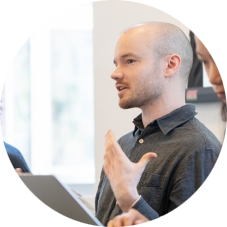
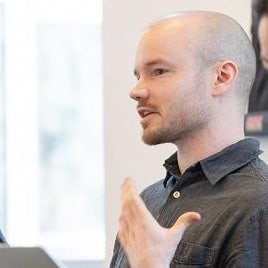
progress

diff --git a/_layouts/pub.html b/_layouts/pub.html
@@ -3,88 +3,76 @@ layout: page
 ---
 
 <div id="paper" class="pure-g">
-  <div id="content" class="{% if page.stub %}stub{% endif %} pure-u-1 pure-u-md-3-4">
-    <h1 class="title">{{page.title}}</h1>
-    <div id="authors" class="pure-g">
-      {% for author in page.authors %}
-        {% assign person = site.data.authors[author.key] %}
-        {% assign person_url = author.url | default:person.url %}
-        <p class="pure-u-1-2 pure-u-md-1-4">
-          {% if person_url %}<a href="{{person_url}}">{% endif %}
-          {% if person %}<img src="/imgs/people/{{author.key}}.jpg" alt="" />{% endif %}
-          <span class="name">{{author.name | default:person.name}}{% if author.equal %}*{% endif %}</span>
-          <span class="affiliation">
-            {% if person %}
-              {{author.affiliation | default: person.affiliation | default: 'CU Boulder'}}
+  <div class="pure-u-md-1-8">&nbsp;</div>
+  <div id="content" class="pure-u-1 pure-u-md-3-4">
+    <div id="paper-header">
+      <h1 class="title">{{page.title}}</h1>
+      <div id="authors" class="pure-g">
+        {% for author in page.authors %}
+          {% assign person = site.data.authors[author.key] %}
+          {% assign person_url = author.url | default:person.url %}
+          <div class="author pure-u-1-2 pure-u-md-1-4">
+            <div class="name">{% if person_url %}<a href="{{person_url}}">{% endif %}{{author.name | default:person.name}}{% if person_url %}</a>{% endif %}{% if author.equal %}*{% endif %}</div>
+            <div class="affiliation">
+              {% if person %}
+                {{author.affiliation | default: person.affiliation | default: 'CU Boulder'}}
+              {% else %}
+                {{author.affiliation}}
+              {% endif %}
+            </div>
+          </div>
+        {% endfor %}
+      </div>
+
+      <div id="metadata">
+          <span id="venue">
+            {% if page.preprint %}
+              {{page.preprint.server}}: {{page.preprint.id}}
             {% else %}
-              {{author.affiliation}}
+              {{site.data.venues[page.venue].full | default: site.data.venues[page.venue].short | default:page.venue}}, {{page.year}}
             {% endif %}
           </span>
-          {% if person_url %}</a>{% endif %}
-        </p>
-      {% endfor %}
-    </div>
+          <div class="award">
+            <i class="fas fa-award"></i> {{page.award}}
+          </div>
 
-    <div id="metadata">
-      <p>
-        <span id="venue">
-          {% if page.preprint %}
-            {{page.preprint.server}}: {{page.preprint.id}}
-          {% else %}
-            {{site.data.venues[page.venue].full | default:page.venue}}, {{page.year}}
+
+        <div class="links">
+
+          {% if page.doi %}
+            <p id="doi" class="links">
+              <span>DOI:</span> <a href="https://doi.org/{{page.doi}}">{{page.doi}}</a>
+            </p>
           {% endif %}
-        </span>
-      </p>
-      {% if page.award %}
-        <p class="award">
-          <i class="fas fa-award"></i> {{page.award}}
-        </p>
-      {% endif %}
 
-      {% if page.doi %}
-        <p id="doi" class="links">
-          <span>DOI:</span> <a href="https://doi.org/{{page.doi}}">{{page.doi}}</a>
-        </p>
-      {% endif %}
+          {% if page.external_url %}
+            <a href="{{page.external_url}}">
+              {% if page.preprint %}Preprint{% else %}Article{% endif %}
+            </a>
+          {% endif %}
 
-      {% if pub.doi or pub.reference_url %}
-      <p id="doi" class="links">
-        <span>Reference link:</span>
-        {% if page.doi %}
-          <a href="https://doi.org/{{page.doi}}">https://doi.org/{{page.doi}}</a>
-        {% elsif page.reference_url %}
-        <a href="{{page.reference_url}}">{{page.reference_url}}</a>
-        {% endif %}
-      </p>
-      {% endif %}
+          {% if page.html_url %}
+            <a href="{{page.html_url}}">HTML article</a>
+          {% endif %}
 
-      {% if page.pdf_url %}
-        <p id="doi" class="links">
-          <span>PDF:</span> <a href="{{page.pdf_url}}">{{page.pdf_url}}</a>
-        </p>
-      {% endif %}
+          {% if page.pdf_url %}
+            <a href="{{page.pdf_url}}">PDF</a>
+          {% endif %}
 
-      {% if page.html_url %}
-        <p id="doi" class="links">
-          <span>HTML article:</span> <a href="{{page.html_url}}">{{page.html_url}}</a>
-        </p>
-      {% endif %}
+          {% if page.doi or page.reference_url %}
+            <a href="{% if page.doi %}https://doi.org/{{page.doi}}{% elsif page.reference_url %}{{page.reference_url}}{% endif %}">Reference link</a>
+          {% endif %}
 
+          {% for material in page.materials %}
+            <a href="{{material.url}}">{{material.name}}</a>
+          {% endfor %}
+        </div>
+      </div>
     </div>
 
-    {% if page.projects %}
-      {% for project in site.projects %}
-        {% if page.projects contains project.key %}
-          {{project.title}}
-        {% endif %}
-      {% endfor %}
-    {% endif %}
-
-    <hr>
-
-    <h3>Abstract</h3>
-
-    {{content}}
+    <div id="paper-content">
+      {{content}}
+    </div>
 
   </div>
 

diff --git a/_sass/papers.scss b/_sass/papers.scss
@@ -1,3 +1,4 @@
+// papers list
 #pubs {
   .publication {
     margin-bottom: 3em;
@@ -31,5 +32,36 @@
     .links {
       margin-top: 0.5em;
     }
+  }
+}
+
+// individual paper template
+#paper {
+  #paper-header {
+    padding-bottom: 2em;
+    border-bottom: 2px solid $foreground;
+  }
+
+  #paper-content {
+    padding-top: 2em;
+    padding-bottom: 2em;
+  }
+
+  .title {
+    font-style: normal;
+  }
+
+  .award {
+    font-style: italic;
+    font-weight: bold;
+  }
+
+  .author {
+    margin-bottom: 1em;
+  }
+
+  .affiliation {
+    margin-top: 0.2rem;
+    font-size: 0.6rem;
   }
 }

diff --git a/_includes/foot.html b/_includes/foot.html
@@ -7,7 +7,7 @@
 
 <script>
   const ac = window.animatedCursor({
-    color: "#FFFF45",
+    color: "#FFFF88",
     outerAlpha: 1,
     trailingSpeed: 1,
     hoverScale: { inner: 0.75, outer: 2 },
@@ -50,7 +50,7 @@
   function dotGrid(xScale, yScale, radius, gap = 10, offsetX = 0, offsetY = 0) {
     background("#FEFDFC");
     noStroke();
-    fill(0,0,0, 0.1 * 255);
+    fill(0,0,0, 0.05 * 255);
 
     // Loop through x and y coordinates, at increments set by gap
     for (let x = gap / 2; x < width; x += gap) {

diff --git a/_sass/header.scss b/_sass/header.scss
@@ -22,6 +22,21 @@
   }
 }
 
+#logo-svg {
+  display: block;
+  height: 150px;
+
+  img {
+    height: 100%;
+    max-width: 100%;
+  }
+
+  @include for-md-down {
+    padding-right: 30px;
+    padding-bottom: 15px;
+  }
+}
+
 .dnd {
   font-family: Control-Cursive;
   font-weight: 900;

diff --git a/_includes/hiring-cta.html b/_includes/hiring-cta.html
@@ -1,1 +1,1 @@
-<a href="#" style="margin: 0;" class="arrow-link">We are hiring Ph.D. students for 2025 <span aria-hidden>&rarr;</span></a>
+<a href="#" class="arrow-link"><span class="cta">Seeking Ph.D. students for Fall 2025 <span aria-hidden>&rarr;</span></span></a>

diff --git a/main.scss b/main.scss
@@ -10,7 +10,7 @@ $heading-font: 'Control-Italic', sans-serif;
 
 $foreground: #1C269E;
 $background: #FEFDFC;
-$accent: #E4D600;
+$accent: #E6E124;
 
 // $foreground: #3762A4;
 // $background: #F9ECE1;

diff --git a/_includes/logo.html b/_includes/logo.html
@@ -1,5 +1,9 @@
-<a href="/" id="logo">
+<!-- <a href="/" id="logo">
 	Data&nbsp;&
 	<br/>
 	Design
+</a> -->
+
+<a href="/" id="logo-svg">
+	<img src="/imgs/logo.svg" alt="Data & Design"/>
 </a>

diff --git a/_sass/scaffold.scss b/_sass/scaffold.scss
@@ -87,6 +87,13 @@ li {
   color: $accent;
 }
 
+.cta {
+  font-style: italic;
+  &:hover {
+    font-style: normal;
+  }
+}
+
 .arrow-link {
   display: block;
   margin-left: 2em;

diff --git a/_sass/about.scss b/_sass/about.scss
@@ -25,6 +25,7 @@
 .portrait img {
   width: 100px;
   height: 100px;
+  filter: grayscale(100%) contrast(200%);
 }
 
 .mission-item {

diff --git a/_sass/research_themes.scss b/_sass/research_themes.scss
@@ -19,3 +19,7 @@
     margin: 0.5em 0;
   }
 }
+
+.theme {
+  margin-bottom: 4em;
+}

diff --git a/index.md b/index.md
@@ -16,6 +16,10 @@ Our group is part of the <a href="https://www.colorado.edu/cmci/infoscience">Dep
 
 <a href="/about" class="arrow-link">Read more <span aria-hidden>&rarr;</span></a>
 
+<p>
+{% include hiring-cta.html %}
+</p>
+
   </div>
 </div>
 
@@ -39,22 +43,41 @@ Our group is part of the <a href="https://www.colorado.edu/cmci/infoscience">Dep
     <h1>Research themes</h1>
 
     {% for theme in site.data.research_themes %}
-      <div id="theme-{{theme.key}}" class="theme" data-url="{{theme.url}}" data-people="{{theme.people}}">
+      <div id="theme-{{theme.key}}" class="theme">
         <div class="content">
           <h3><a href="/research#theme-{{theme.key}}">{{theme.name}}</a></h3>
           {{theme.desc | markdownify}}
+          {% capture projectOutput %}
+            {% assign projectYears = site.projects | group_by:"year" | sort: "name" | reverse %}
+            {% for year in projectYears %}
+              {% assign projects = year.items | sort: 'date' | reverse %}
+              {% for project in projects %}
+                {% if project.themes and project.themes contains theme.key %}
+                  <li class="pub"><a href="/projects/{{project.slug}}"><span class="title">{{project.title}}</span>: {{project.description}}</a></li>
+                {% endif %}
+              {% endfor %}
+            {% endfor %}
+          {% endcapture %}
+          {% assign projectOutputStrip = projectOutput | strip%}
+          {% if projectOutputStrip and projectOutputStrip != '' %}
+            <h4>
+              Selected projects
+            </h4>
+            <ul>
+            {{projectOutputStrip}}
+            </ul>
+          {%endif%}
         </div>
       </div>
     {% endfor %}
-
     <p>
-        <a href="/research" class="arrow-link">Read more <span aria-hidden>&rarr;</span></a>
+        <a href="/research" class="arrow-link">Full research themes <span aria-hidden>&rarr;</span></a>
     </p>
     <p>
-        <a href="/projects" class="arrow-link">See projects <span aria-hidden>&rarr;</span></a>
+        <a href="/projects" class="arrow-link">More projects <span aria-hidden>&rarr;</span></a>
     </p>
     <p>
-        <a href="/publications" class="arrow-link">See all publications <span aria-hidden>&rarr;</span></a>
+        <a href="/publications" class="arrow-link">More publications <span aria-hidden>&rarr;</span></a>
     </p>
 
   </div>
@@ -71,10 +94,10 @@ Our group is part of the <a href="https://www.colorado.edu/cmci/infoscience">Dep
       <a href="https://twitter.com/cudatadesign">Twitter</a>
     </p>
     <p>
-      <a href="https://github.com/data-and-design/">Github</a>
+      <a href="https://www.linkedin.com/company/cudatadesign">LinkedIn</a>
     </p>
     <p>
-      {% include hiring-cta.html %}
+      <a href="https://github.com/data-and-design/">Github</a>
     </p>
 
   </div>

diff --git a/projects.md b/projects.md
@@ -18,15 +18,13 @@ layout: page
       {% assign projects = year.items | sort: 'date' | reverse %}
       {% for project in projects %}
         <div class="pure-u-1 pure-u-md-1-2 project">
-          <a href="/projects/{{project.slug}}">
             {% if project.imgAlt %}
               <div class="monotone">
-                <img src="/imgs/thumbs/{{project.key}}.png" alt="{{project.imgAlt}}" />
+                <a href="/projects/{{project.slug}}"><img src="/imgs/thumbs/{{project.key}}.png" alt="{{project.imgAlt}}" /></a>
               </div>
             {% endif %}
-            <h2>{{project.title}}</h2>
-            <div>{{project.description | capitalize}}</div>
-          </a>
+            <a href="/projects/{{project.slug}}"><h2>{{project.title}}</h2></a>
+            <a href="/projects/{{project.slug}}"><div>{{project.description | capitalize}}</div></a>
         </div>
       {% endfor %}
     {% endfor %}
